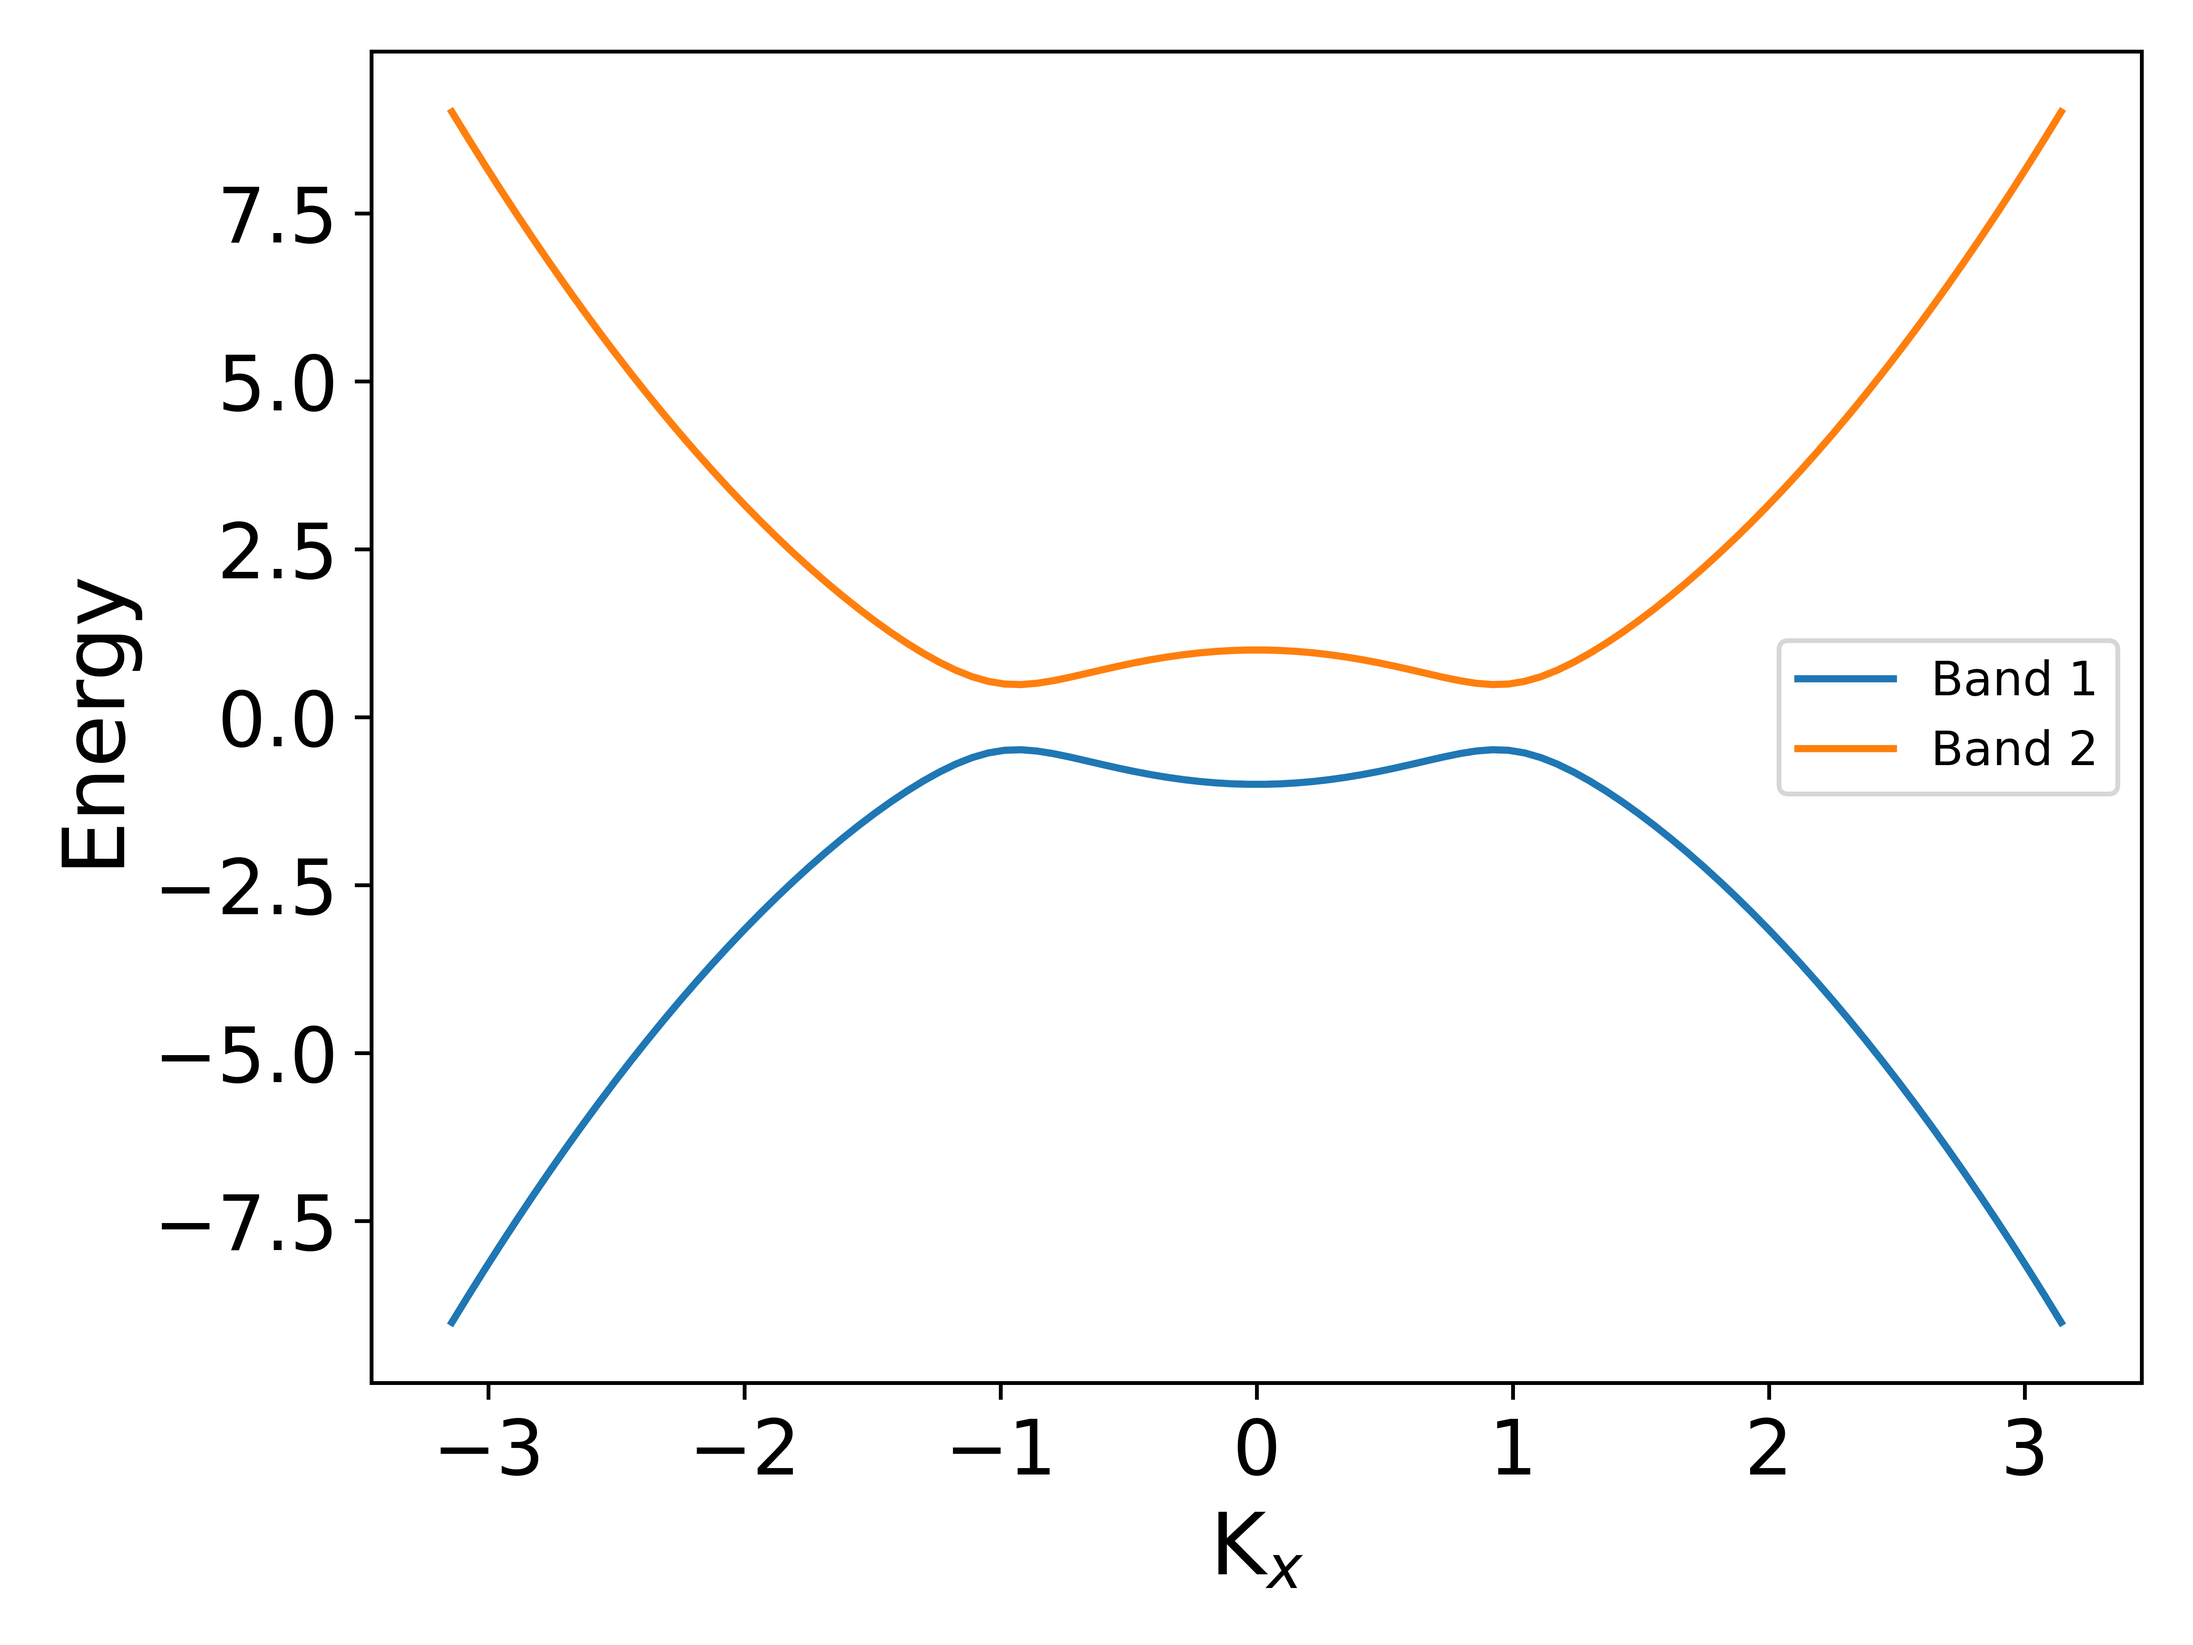
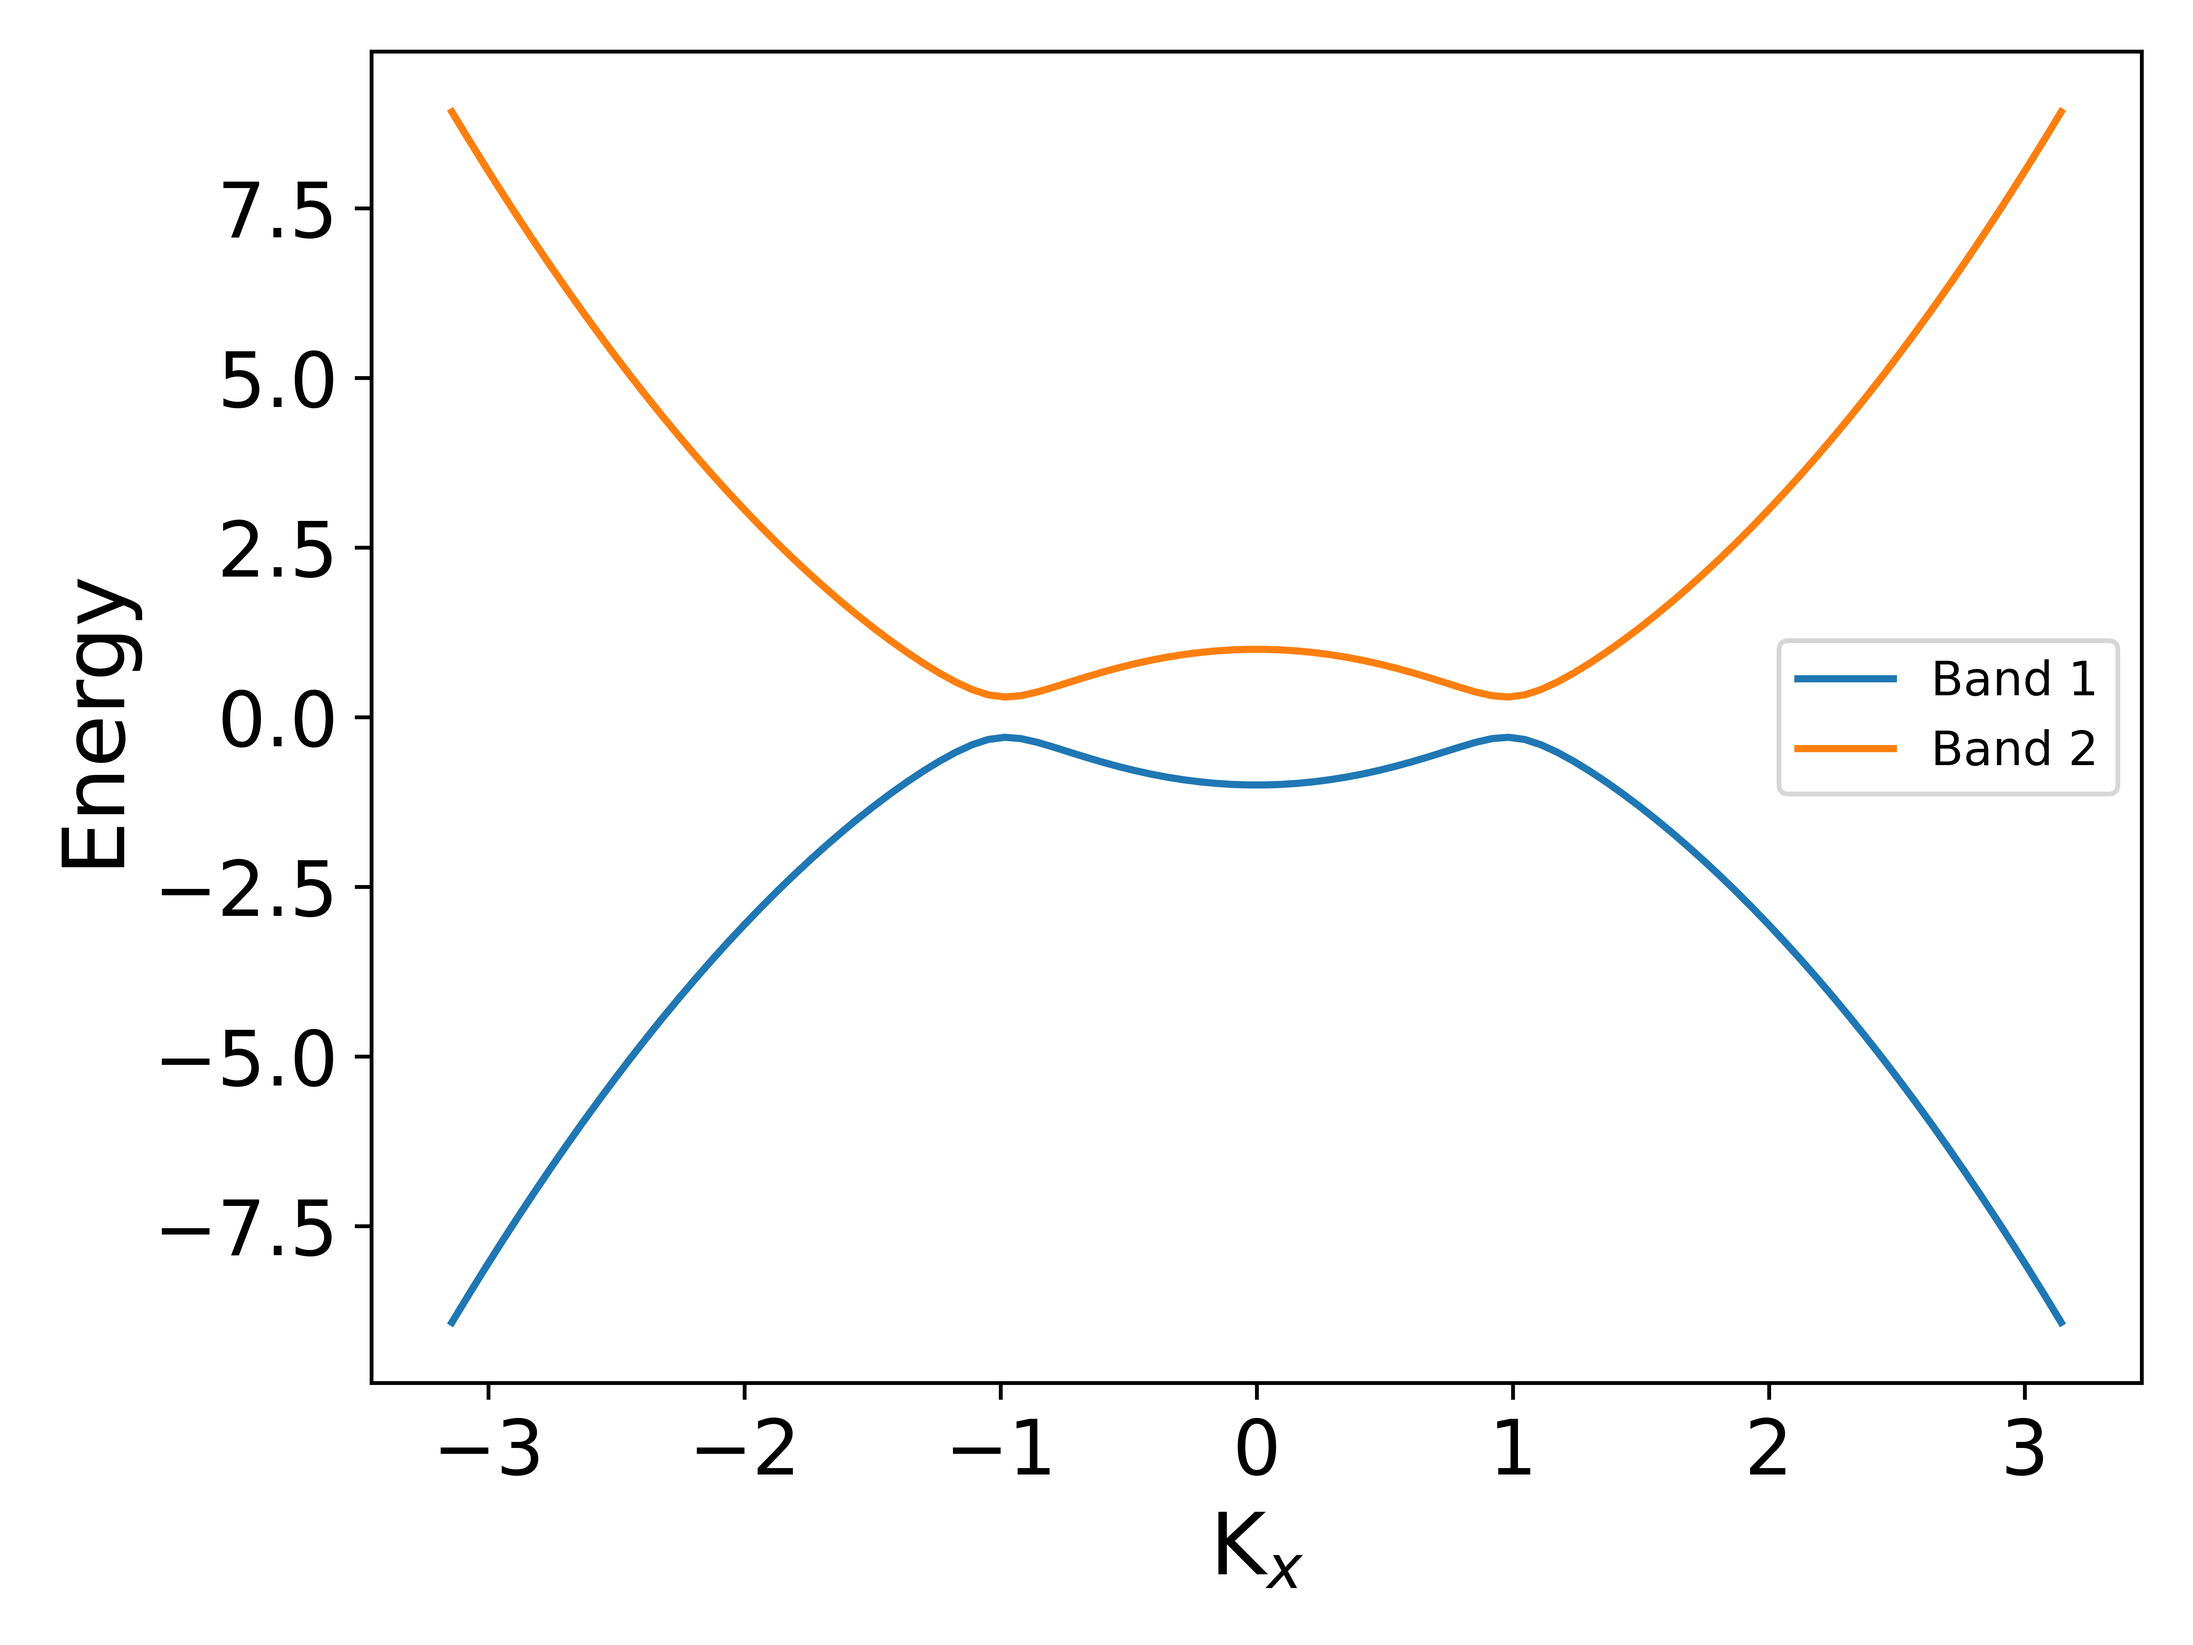
proj added

diff --git a/qsh_main.py b/qsh_main.py
@@ -1,9 +1,11 @@
 import numpy as np
-import matplotlib.pyplot as plt
+import matplotlib.pyplot as plt 
 
 # Parâmetros da Hamiltoniana
-t = 0.5
-M = 1
+t = 0.3
+M = 1.0
+fixed_kx = 1
+fixed_ky = 1
 
 # Definir a Hamiltoniana
 def hamiltonian(kx, ky, t, M):
@@ -75,7 +77,7 @@ plt.savefig('bands.png', dpi=800)
 #Transição de Fase Kx fixo+++++++++++++++++++++++++++++++++++++++++++++++++
 
 # Plotar a fase de Berry para kx fixo
-fixed_kx = 1
+
 phases_fixed_kx = np.zeros(num_points)
 
 # Calcular a fase de Berry para kx fixo e ky variando
@@ -96,7 +98,7 @@ plt.savefig('kx_fixed.png', dpi=800)
 #Transição de Fase Ky fixo+++++++++++++++++++++++++++++++++++++++++++++++++
 
 # Plotar a fase de Berry para ky fixo
-fixed_ky = 1
+
 phases_fixed_ky = np.zeros(num_points)
 
 # Calcular a fase de Berry para kx fixo e ky variando
